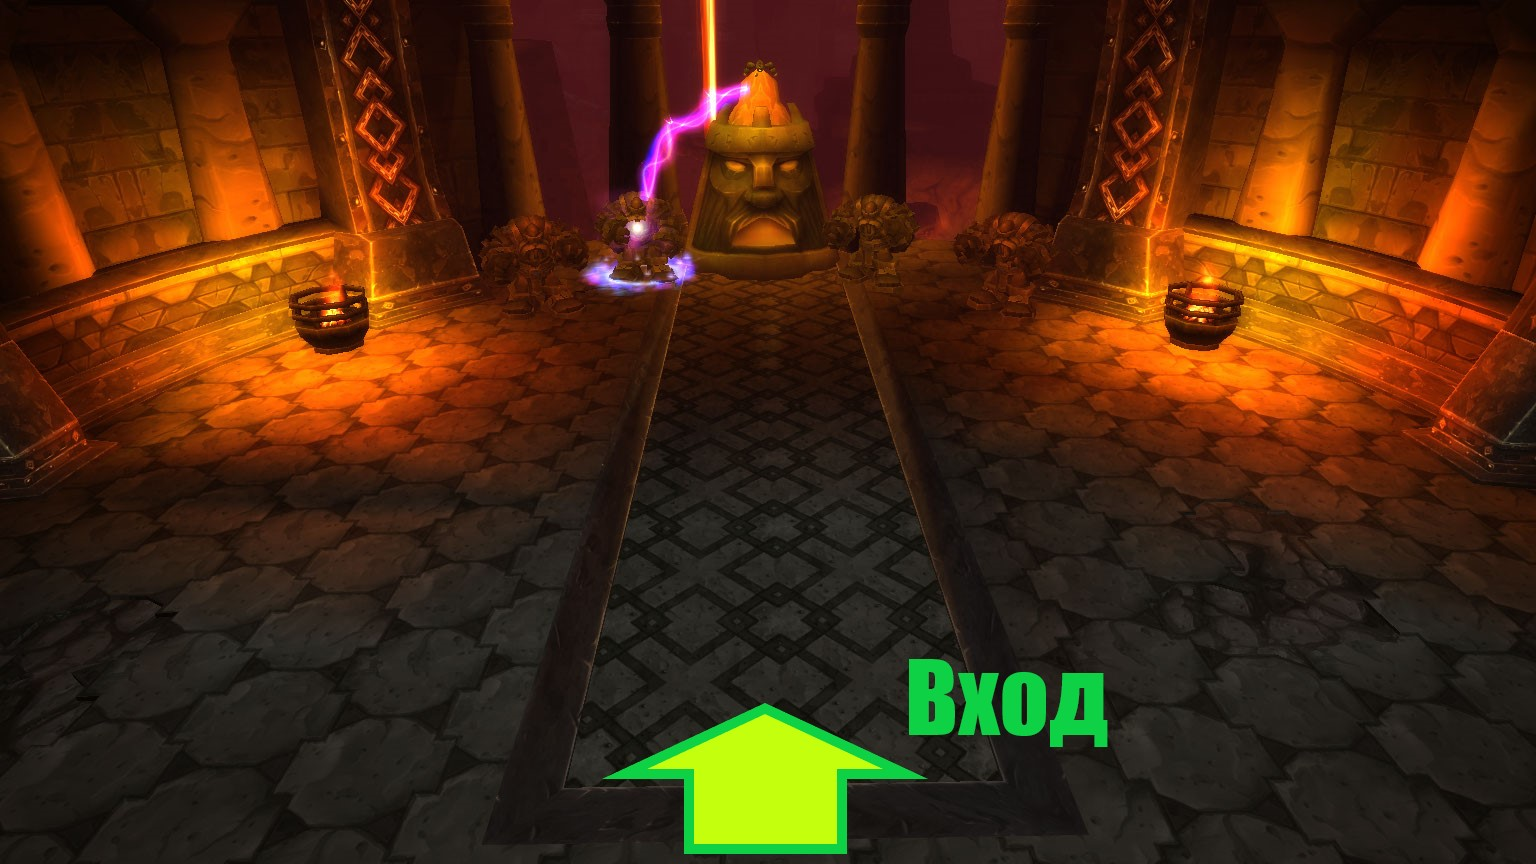
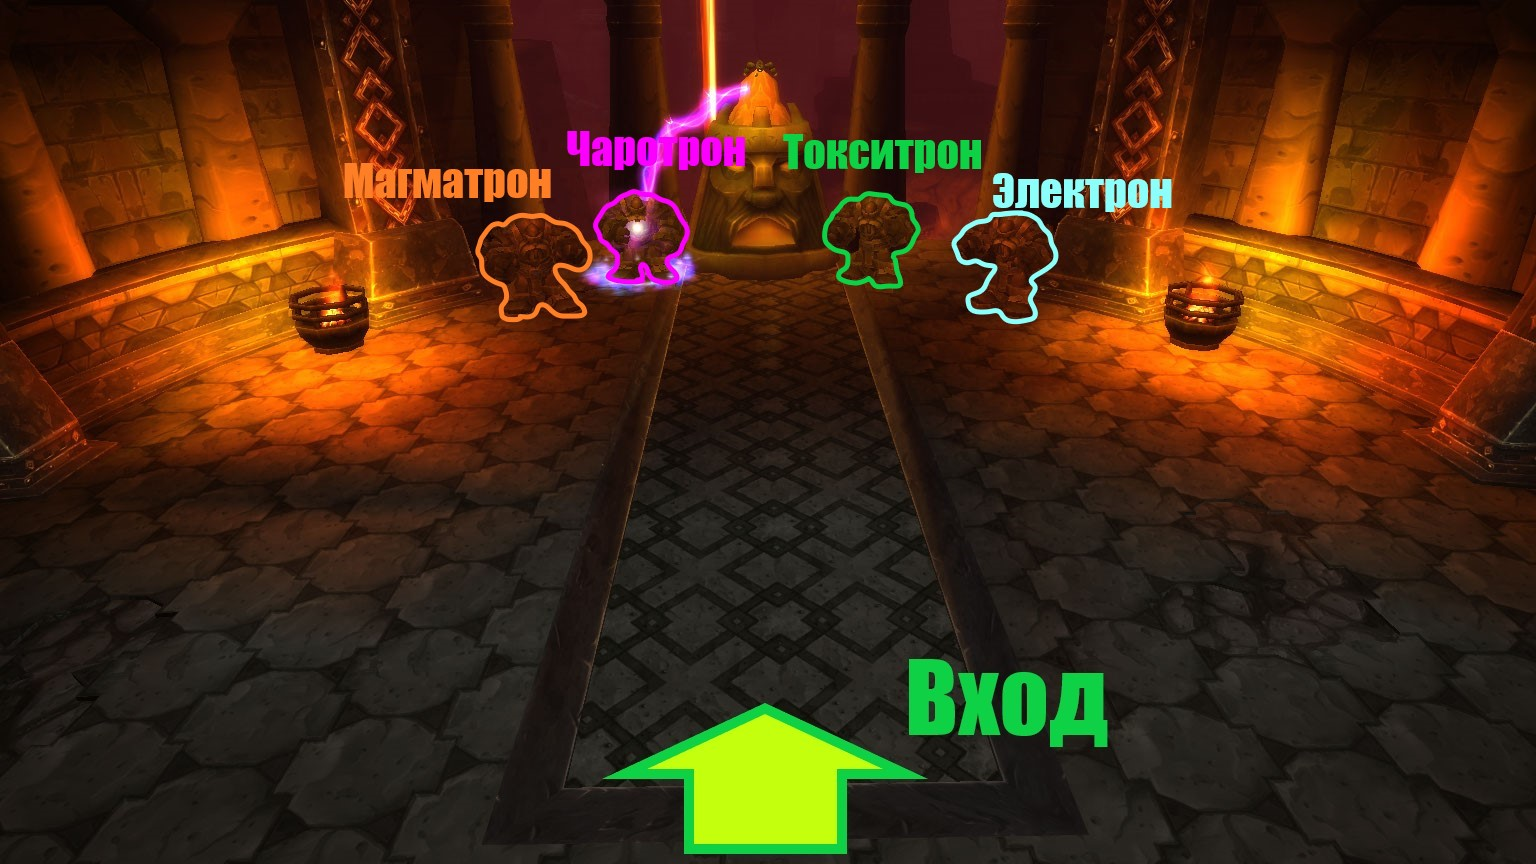
Омнотроны: готово на 16%. Мишаня позвал в факторио

Changed region(s): [[0.2188, 0.1562, 0.7812, 0.375]]

diff --git a/docs/bd/ODS.md b/docs/bd/ODS.md
@@ -59,7 +59,8 @@ import styles from './ODS-styles.modules.css';
 способность (или типа того) одного из активного голема. И конечно же есть такие комбинации големов, при котором
 конкретный бафф Нефариана
 чуть ли не вайпает рейд. Также в героическом режиме энергия у боссов уменьшается в 2 раза быстрее. Это значит, что
-големы будут чередоваться невероятно быстро. В купе с рандомным порядком, да ещё и рандомными "приколами" от Нефариана, данный
+големы будут чередоваться невероятно быстро. В купе с рандомным порядком, да ещё и рандомными "приколами" от Нефариана,
+данный
 энкаунтер является невероятно динамичным и рандомным.
 
 <Tabs>
@@ -176,8 +177,10 @@ import styles from './ODS-styles.modules.css';
 
 ## Арена энкаунтера
 
-Ничего особенного, просто большая комната. Изначально 3 неактивных голема стоят у дальнего края, кроме одного. Какой именно
-голем активен? Это случайность. Также у дальнего края в центре стоит пилон. Во время боя он будет заряжать следующего голема в очереди
+Ничего особенного, просто большая комната. Изначально 3 неактивных голема стоят у дальнего края, кроме одного. Какой
+именно
+голем активен? Это случайность. Также у дальнего края в центре стоит пилон. Во время боя он будет заряжать следующего
+голема в очереди
 на активацию.
 
 <div className="text--center">
@@ -185,3 +188,15 @@ import styles from './ODS-styles.modules.css';
 ![ODS](/img/bd/ODS/ODS_arena_1.jpg)
 
 </div>
+
+## Механики энкаунтера
+
+[Берсерк](https://www.wowhead.com/cata/ru/spell=61714)**: наступает через 10 мин. после начала боя.**
+
+### Смена големов
+
+Изначально по арене гуляет 1 из 4-х големов, случайный. Остальные 3 голема спят. Например, вот гуляет Чаротрон а 3
+остальных голема спят. **Обращаю ваше внимание, что големы имеет 100 энергии**. Самый первый голем всегда имеет 199
+энергии, и каждый голем после пробуждения имеет 100 энергии.
+
+![ODS](/img/bd/ODS/ODS_smena_1.jpg)
